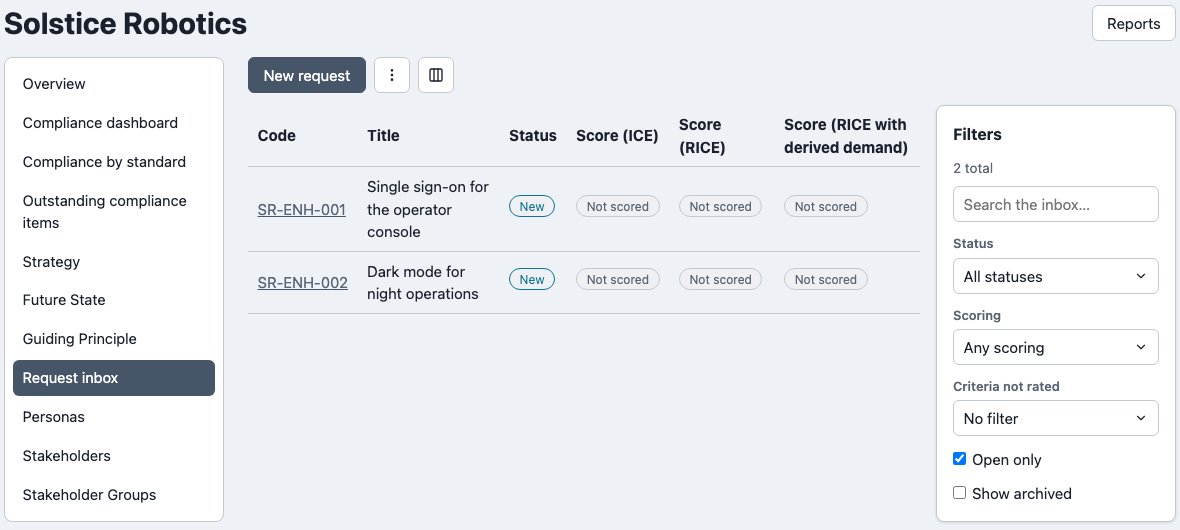
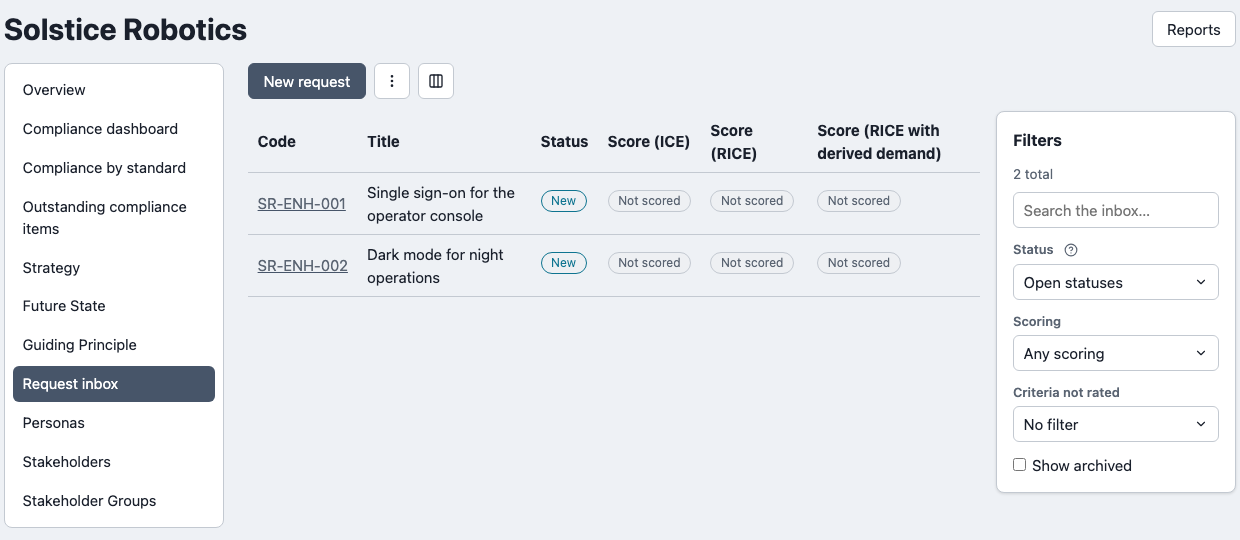
Website documentation updated after refinements

diff --git a/docs/website/docs/modules/product-feedback-module/enhancement-request.md b/docs/website/docs/modules/product-feedback-module/enhancement-request.md
@@ -23,8 +23,8 @@ The side panel holds the request's **Links** and **Activity**.
 
 | A request page |
 | --- |
-| Status actions at the top; details, references, scoring and demand below; links beside |
-| ![Request page for ENH-001 showing the Accepted status with Return to review, Mark delivered and Decline buttons, then the Details, External references, Scoring and Demand sections, and a Links panel on the right](../../../static/img/screenshots/feedback-request-detail-full.png) |
+| Status actions at the top; details, demand (each requester's weight and where it comes from), scoring and external references below |
+| ![Request page for ENH-001 showing the Accepted status with Return to review, Mark delivered and Decline buttons, then the Details, Demand, Scoring and External references sections, with each requester's weight source under its weight](../../../static/img/screenshots/feedback-request-detail-full.png) |
 
 **Arrange sections…** (on the page's menu) sets your own order for these sections. A project administrator can set a default order for the project; your own choice wins, and any section the order does not mention follows in the standard order.
 
@@ -70,7 +70,7 @@ Triagers also get a **Grid** view for editing several requests at once, so you c
 
 ## The organisation inbox
 
-An organisation's own requests are on **Organisation overview → Request inbox**. It is for asks that arrive with no project yet. Inbox requests are triaged like any other, but cannot be linked to other records or have requesters, so they have no demand figure.
+An organisation's own requests are on **Organisation overview → Request inbox**. It is for asks that arrive with no project yet. Inbox requests are triaged like any other, but cannot be linked to other records or have requesters, so they have no demand figure. Its list has the same Status, Scoring and Criteria not rated filters and the same columns as a project's, without the Pain Points and project-scope controls.
 
 | The organisation inbox |
 | --- |

diff --git a/docs/website/docs/modules/product-feedback-module/mcp-integration.md b/docs/website/docs/modules/product-feedback-module/mcp-integration.md
@@ -10,7 +10,7 @@ Product Feedback contributes 34 tools to ReqTrackManager's [MCP server](../../ap
 
 | Category | Count | Covers |
 | --- | --- | --- |
-| Read | 13 | Listing and fetching requests (filters include status, open only, search, scored or unscored, and a missing criterion), versions, comments, the scoring scheme, the demand breakdown (paged), the close-the-loop view, open loops, merges, references, the external system and channel lists, and the project's submission setting. |
+| Read | 13 | Listing and fetching requests (filters include status, open only, search, scored or unscored, requests with or without a linked Pain Point, and a missing criterion), versions, comments, the scoring scheme, the demand breakdown (paged), the close-the-loop view, open loops, merges, references, the external system and channel lists, and the project's submission setting. |
 | Create / update / status | 3 | Creating a request, changing it, and moving it between statuses. Declining needs a reason. |
 | Merge | 2 | Merging a request into another, and undoing it. |
 | Close the loop | 1 | Marking requesters told, or withdrawing it. |
@@ -28,6 +28,7 @@ Requesters, Pain Points and Requirements are linked with the **core link tools**
 | "What are our most-requested enhancements?" | `product_feedback_get_demand_ranking_report` |
 | "Which requests have no Pain Point?" | `product_feedback_get_unlinked_requests_report` |
 | "Which requests are still unscored on Ease?" | `product_feedback_list_requests` (`missing_axis`) |
+| "Which open requests address no Pain Point?" | `product_feedback_list_requests` (`pain_points`) |
 | "Who asked for ENH-001, and how?" | `product_feedback_get_request_demand` |
 | "Merge ENH-004 into ENH-001." | `product_feedback_merge_request` |
 | "Who still needs to hear about the delivered requests?" | `product_feedback_list_open_loops` |

diff --git a/docs/website/docs/modules/product-feedback-module/scoring.md b/docs/website/docs/modules/product-feedback-module/scoring.md
@@ -59,9 +59,11 @@ The same weighted demand can mean different things in different products: 20 wei
 An organisation administrator (or Organisation Feedback Triager) edits scoring at **Organisation admin → Request Scoring**, and a project administrator at **Project admin → Request Scoring**:
 
 - **Models shown**: which models are enabled and score every request side by side.
-- **Levels**: names, weights and guidance, and the Demand thresholds.
+- **Levels**: names, weights and guidance, and the Demand thresholds. Levels an administrator inherits are shown read-only in the same columns.
 - **Criteria**: add your own criteria and models. A model either multiplies criteria (with a divisor and an exponent for each) or takes a **weighted sum** (an importance percentage per criterion, with a "lower is better" option that inverts one). A weighted sum scales each criterion to its top level first, so the best possible score is always 100%.
 - **Hide and restore**: the built-in criteria and models can be hidden, never deleted.
+
+Each block on these pages folds, and each criterion's levels start folded with a count, so a long scheme stays short to scan; the open or folded state is remembered per person.
 
 A project's criteria are an **additive layer** over the organisation's, so a software, a hardware and a services team can each score differently without a copy of the whole scheme. A child project with none of its own shows its nearest ancestor's. The organisation inbox uses the organisation's models only, since a project's own model means nothing across projects.
 
